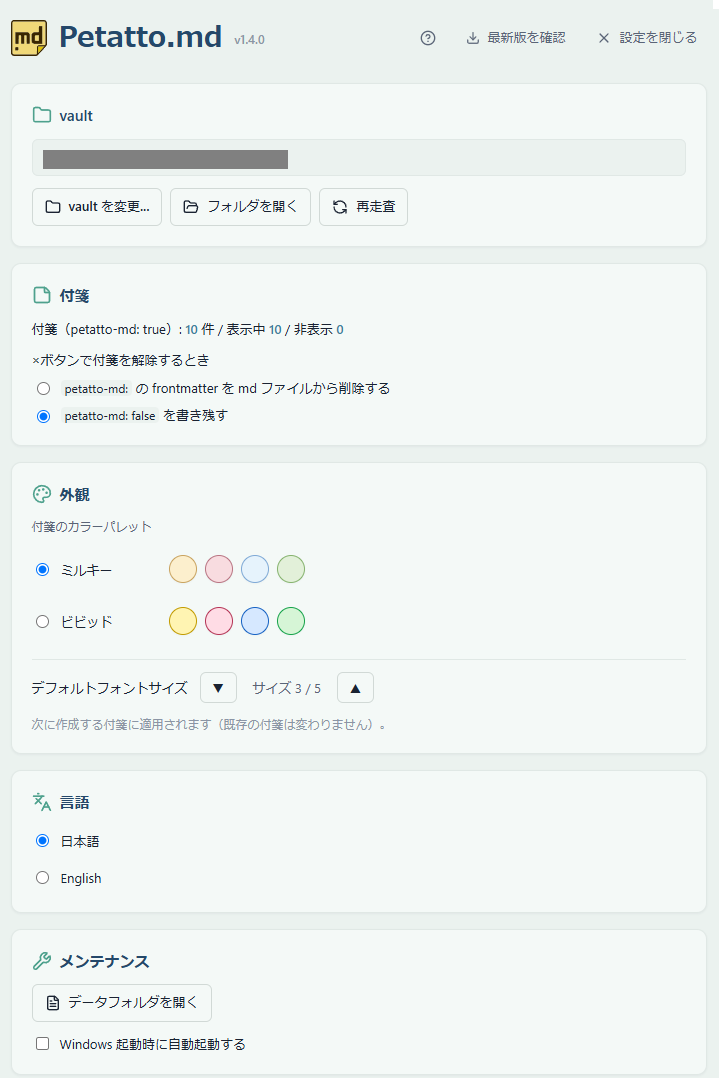
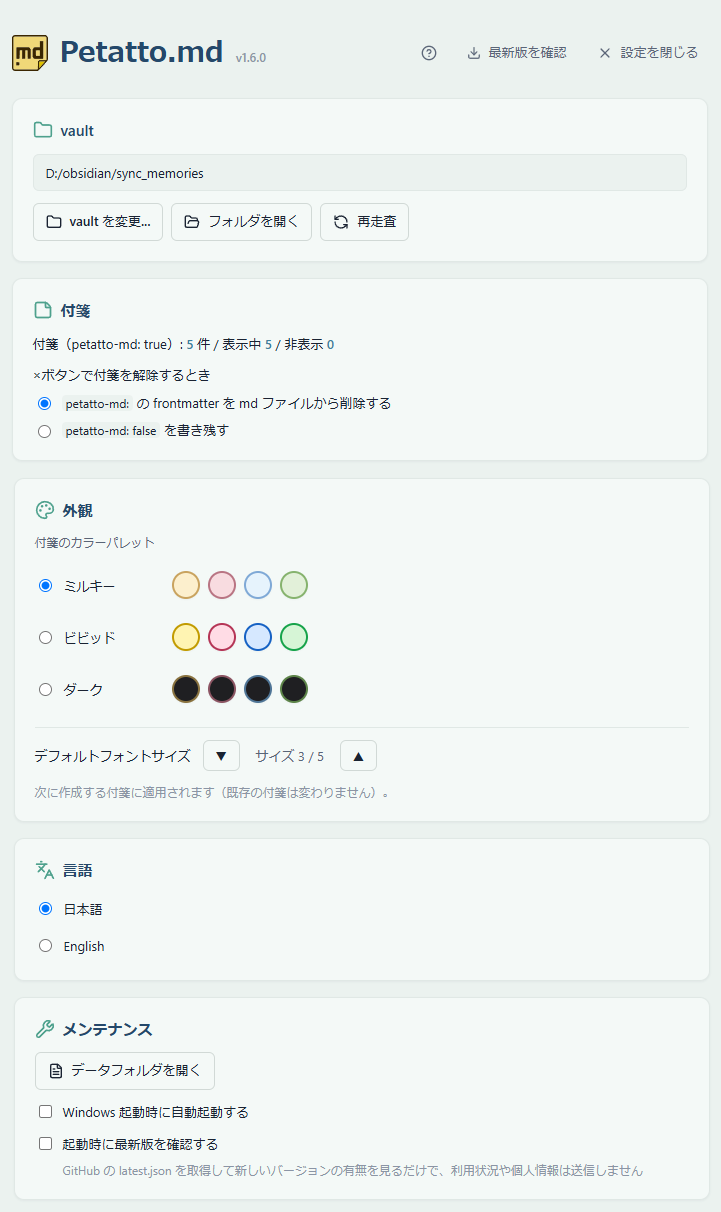
feat: v1.6.0 のサイト同期（ダークパレット・起動時の更新確認）
- #features: パレットのカードを 3 パレット（ミルキー / ビビッド / ダーク）へ
- #screenshots: ダーク付箋の画像を追加し、設定画面 main.png・main_en.png を v1.6.0 で差し替え
- #faq a3・privacy.html ja/en: 更新確認の説明に、既定オフの「起動時に最新版を確認する」をオンにしたときの起動時 1 回を加える
- #roadmap: 実装済みになった「起動時の更新チェック」（releases issue #3）を外す

diff --git a/assets/main.js b/assets/main.js
@@ -39,8 +39,8 @@
       "feat.flag.d": "<code>petatto-md: true</code> を md に書くだけで付箋化。アプリ状態は md を汚しません。",
       "feat.newmd.t": "新しいメモもトレイから",
       "feat.newmd.d": "トレイの「新規md作成…」でファイル名を入れるだけ。vault に <code>petatto-md: true</code> 付きの md が作られ、そのまま付箋になります。",
-      "feat.palette.t": "2 パレット × 4 色",
-      "feat.palette.d": "ミルキー / ビビッドの 2 テーマ、各 4 色を巡回。気分やカテゴリで色分け。",
+      "feat.palette.t": "3 パレット × 4 色",
+      "feat.palette.d": "ミルキー / ビビッド / ダークの 3 テーマ、各 4 色を巡回。気分やカテゴリで色分け。",
       "feat.check.t": "チェックボックス操作",
       "feat.check.d": "<code>- [ ]</code> をクリックで切替。付箋の上でそのまま TODO を消化できます。",
       "feat.sync.t": "リアルタイム同期",
@@ -64,6 +64,7 @@
       "shots.mainImg": "assets/screenshots/main.png",
       "shots.tray": "トレイ左クリックで全付箋を最前面／右クリックで一元操作",
       "shots.trayImg": "assets/screenshots/tasktray.png",
+      "shots.dark": "ダークパレット（4 色循環）",
 
       "how.title": "3 ステップで付箋化",
       "how.sub": "Obsidian を持っていれば、すぐに始められます。",
@@ -106,7 +107,7 @@
       "faq.q2": "付箋の色や位置は Obsidian の md に書き込まれますか？",
       "faq.a2": "いいえ。色・位置・サイズはアプリ側の SQLite に保存され、md には <code>petatto-md: true</code> フラグ以外を書きません。Obsidian 側を汚しません。",
       "faq.q3": "データはどこかに送信されますか？",
-      "faq.a3": "送信しません。テレメトリ・使用状況・解析は一切収集しません。更新確認（手動ボタン）時だけ「新しいバージョンがあるか」を問い合わせますが、利用状況は含みません。",
+      "faq.a3": "送信しません。テレメトリ・使用状況・解析は一切収集しません。「新しいバージョンがあるか」を問い合わせるのは、「最新版を確認」ボタンを押したときと、設定「起動時に最新版を確認する」（既定はオフ）をオンにしたときの起動時 1 回だけで、利用状況は含みません。",
       "faq.q4": "付箋を消すとファイルも消えますか？",
       "faq.a4": "消えません。付箋ヘッダの「×」は<strong>付箋化を解除するだけ</strong>で、md ファイル自体は残ります。解除したときに frontmatter の <code>petatto-md</code> を<strong>削除する</strong>か、<code>petatto-md: false</code> として<strong>書き残す</strong>かは設定で選べます（既定は削除）。書き残しておけば、Obsidian 側で <code>petatto-md: false</code> を検索して「前に付箋にしていたノート」を辿れます。",
       "faq.qignore": "特定のフォルダを付箋の対象から外せますか？",
@@ -123,8 +124,6 @@
       "roadmap.aot.d": "付箋ごとに「常に最前面」を保てるトグル。",
       "roadmap.appearance.t": "外観の自由度",
       "roadmap.appearance.d": "フォントの選択と、本文の文字色を自由に。",
-      "roadmap.update.t": "起動時の更新チェック",
-      "roadmap.update.d": "オプトインで、起動時に新しいバージョンの有無だけを確認（既定はオフ）。",
       "roadmap.vote": "👍 で投票",
       "roadmap.ng.title": "あえてやらないこと",
       "roadmap.ng.lead": "機能不足ではなく、Obsidian を壊さず「眺める・チェックする」に徹するための意図的な線引きです。",
@@ -192,8 +191,8 @@
       "feat.flag.d": "Add <code>petatto-md: true</code> to a note and it becomes a sticky. App state never pollutes your md.",
       "feat.newmd.t": "New notes straight from the tray",
       "feat.newmd.d": 'Type a name in "New md file…" and a fresh md is created in your vault — flag included — and pinned right away.',
-      "feat.palette.t": "2 palettes × 4 colors",
-      "feat.palette.d": "Cycle through Milky / Vivid themes, 4 colors each. Color-code by mood or category.",
+      "feat.palette.t": "3 palettes × 4 colors",
+      "feat.palette.d": "Cycle through Milky / Vivid / Dark themes, 4 colors each. Color-code by mood or category.",
       "feat.check.t": "Clickable checkboxes",
       "feat.check.d": "Toggle <code>- [ ]</code> with a click. Knock out TODOs right on the note.",
       "feat.sync.t": "Real-time sync",
@@ -217,6 +216,7 @@
       "shots.mainImg": "assets/screenshots/main_en.png",
       "shots.tray": "Left-click the tray to bring all notes to front · right-click for full control",
       "shots.trayImg": "assets/screenshots/tasktray_en.png",
+      "shots.dark": "Dark palette (4-color cycle)",
 
       "how.title": "Sticky in 3 steps",
       "how.sub": "If you have Obsidian, you can start right away.",
@@ -259,7 +259,7 @@
       "faq.q2": "Are colors and positions written into my Obsidian md?",
       "faq.a2": "No. Color, position, and size are stored in the app's SQLite. Nothing but the <code>petatto-md: true</code> flag is written to your md. Your Obsidian stays clean.",
       "faq.q3": "Is any data sent anywhere?",
-      "faq.a3": "No. No telemetry, usage, or analytics are collected. Only when you press the manual update-check button does it ask whether a newer version exists — no usage data included.",
+      "faq.a3": "No. No telemetry, usage, or analytics are collected. It asks whether a newer version exists only when you press the “Check for updates” button, or once at startup if you turn on “Check for updates at startup” in settings (off by default) — no usage data included.",
       "faq.q4": "If I close a sticky, is the file deleted?",
       "faq.a4": "No. The header × button just <strong>unpins</strong> the note — the md file itself stays. You choose what happens to the frontmatter: <strong>delete</strong> the <code>petatto-md</code> key, or <strong>keep</strong> it as <code>petatto-md: false</code> (delete is the default). Keeping it lets you search Obsidian for <code>petatto-md: false</code> to find notes you used to have on your desktop.",
       "faq.qignore": "Can I keep certain folders out of the sticky notes?",
@@ -276,8 +276,6 @@
       "roadmap.aot.d": "A per-note toggle to keep a sticky always in front.",
       "roadmap.appearance.t": "Appearance options",
       "roadmap.appearance.d": "Pick fonts and set the body text color freely.",
-      "roadmap.update.t": "Startup update check",
-      "roadmap.update.d": "Opt-in: check for a newer version at startup (off by default).",
       "roadmap.vote": "👍 Vote",
       "roadmap.ng.title": "What it won't do",
       "roadmap.ng.lead": "Not missing features — deliberate boundaries that keep \"glance & check\" intact without disturbing Obsidian.",

diff --git a/index.html b/index.html
@@ -126,8 +126,8 @@
           </article>
           <article class="card" style="--accent:#ECB6BD">
             <div class="card-ic">🎨</div>
-            <h3 data-i18n="feat.palette.t">2 パレット × 4 色</h3>
-            <p data-i18n="feat.palette.d">ミルキー / ビビッドの 2 テーマ、各 4 色を巡回。気分やカテゴリで色分け。</p>
+            <h3 data-i18n="feat.palette.t">3 パレット × 4 色</h3>
+            <p data-i18n="feat.palette.d">ミルキー / ビビッド / ダークの 3 テーマ、各 4 色を巡回。気分やカテゴリで色分け。</p>
           </article>
           <article class="card" style="--accent:#BADAFF">
             <div class="card-ic">☑</div>
@@ -191,6 +191,10 @@
           <figure class="shot">
             <img data-i18n-src="shots.trayImg" src="assets/screenshots/tasktray.png" alt="" loading="lazy" />
             <figcaption data-i18n="shots.tray">トレイ左クリックで全付箋を最前面／右クリックで一元操作</figcaption>
+          </figure>
+          <figure class="shot">
+            <img src="assets/screenshots/post_it_dark.png" alt="" loading="lazy" />
+            <figcaption data-i18n="shots.dark">ダークパレット（4 色循環）</figcaption>
           </figure>
         </div>
       </div>
@@ -320,7 +324,7 @@ petatto-md: true
           </details>
           <details>
             <summary data-i18n="faq.q3">データはどこかに送信されますか？</summary>
-            <p data-i18n="faq.a3">送信しません。テレメトリ・使用状況・解析は一切収集しません。更新確認（手動ボタン）時だけ「新しいバージョンがあるか」を問い合わせますが、利用状況は含みません。</p>
+            <p data-i18n="faq.a3">送信しません。テレメトリ・使用状況・解析は一切収集しません。「新しいバージョンがあるか」を問い合わせるのは、「最新版を確認」ボタンを押したときと、設定「起動時に最新版を確認する」（既定はオフ）をオンにしたときの起動時 1 回だけで、利用状況は含みません。</p>
           </details>
           <details>
             <summary data-i18n="faq.q4">付箋を消すとファイルも消えますか？</summary>
@@ -364,14 +368,6 @@ petatto-md: true
               <span class="roadmap-desc" data-i18n="roadmap.appearance.d">フォントの選択と、本文の文字色を自由に。</span>
             </div>
             <a class="roadmap-vote" href="https://github.com/Just2enough/petatto-md-releases/issues/5"
-              target="_blank" rel="noopener" data-i18n="roadmap.vote">👍 で投票</a>
-          </li>
-          <li class="roadmap-item">
-            <div class="roadmap-info">
-              <span class="roadmap-ttl" data-i18n="roadmap.update.t">起動時の更新チェック</span>
-              <span class="roadmap-desc" data-i18n="roadmap.update.d">オプトインで、起動時に新しいバージョンの有無だけを確認（既定はオフ）。</span>
-            </div>
-            <a class="roadmap-vote" href="https://github.com/Just2enough/petatto-md-releases/issues/3"
               target="_blank" rel="noopener" data-i18n="roadmap.vote">👍 で投票</a>
           </li>
         </ul>

diff --git a/privacy.html b/privacy.html
@@ -80,7 +80,7 @@
 
         <h2>3. ネットワーク通信</h2>
         <ul>
-          <li><strong>GitHub 配布版（MSI）</strong>: ヘッダの「最新版を確認」ボタンを押したときにのみ、新しいバージョンが存在するかを確認するためのバージョン情報（<code>latest.json</code>）を取得します。これは通常の Web リクエストであり、個人情報や利用状況は一切含みません。起動時の自動チェックは行いません。</li>
+          <li><strong>GitHub 配布版（MSI）</strong>: ヘッダの「最新版を確認」ボタンを押したとき、および設定「起動時に最新版を確認する」をオンにした場合の起動時 1 回にのみ、新しいバージョンが存在するかを確認するためのバージョン情報（<code>latest.json</code>）を取得します。この設定は既定でオフです（v1.6.0 以降）。これは通常の Web リクエストであり、個人情報や利用状況は一切含みません。</li>
           <li><strong>Microsoft Store 版（MSIX）</strong>: 更新は Microsoft Store が配信します。アプリ内の更新確認ボタンは無効化されています。</li>
           <li>上記以外に本アプリがネットワーク通信を行うことはありません。</li>
         </ul>
@@ -133,7 +133,7 @@
 
         <h2>3. Network communication</h2>
         <ul>
-          <li><strong>GitHub (MSI) version</strong>: Only when you press the "Check for updates" button does the App fetch a version manifest (<code>latest.json</code>) to see whether a newer version exists. This is an ordinary web request and contains no personal information or usage data. There is no automatic check on launch.</li>
+          <li><strong>GitHub (MSI) version</strong>: The App fetches a version manifest (<code>latest.json</code>) to see whether a newer version exists only when you press the "Check for updates" button, or once at startup if you turn on "Check for updates at startup" in settings. This setting is off by default (v1.6.0 and later). This is an ordinary web request and contains no personal information or usage data.</li>
           <li><strong>Microsoft Store (MSIX) version</strong>: Updates are delivered by the Microsoft Store; the in-app update-check button is disabled.</li>
           <li>The App makes no other network connections.</li>
         </ul>
